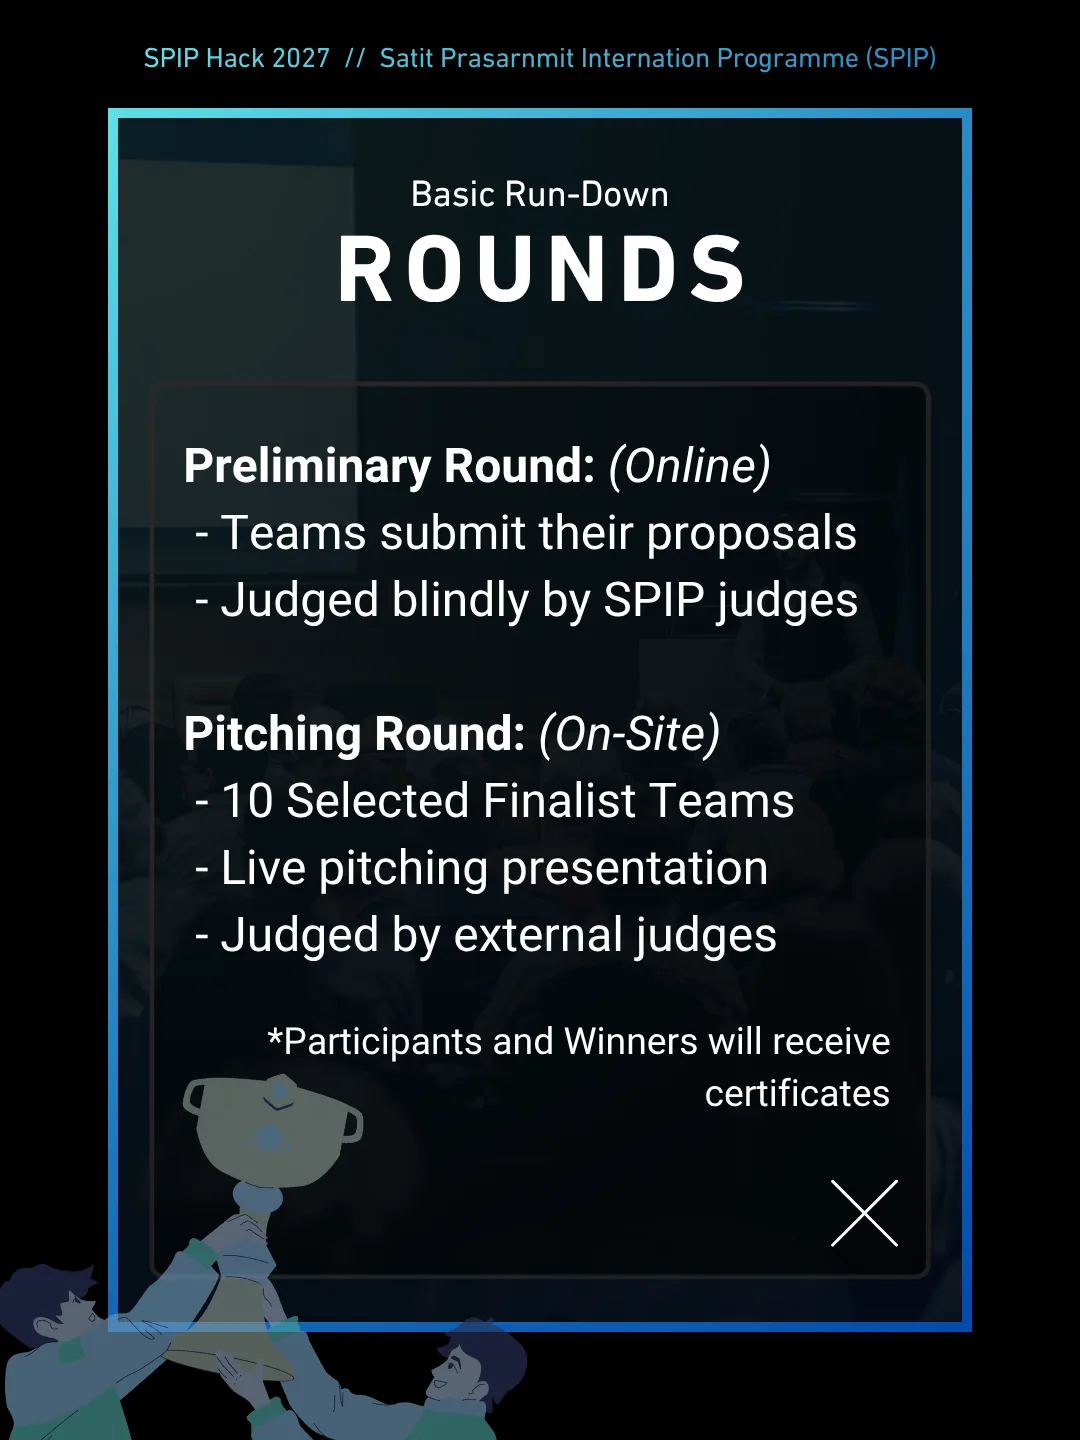
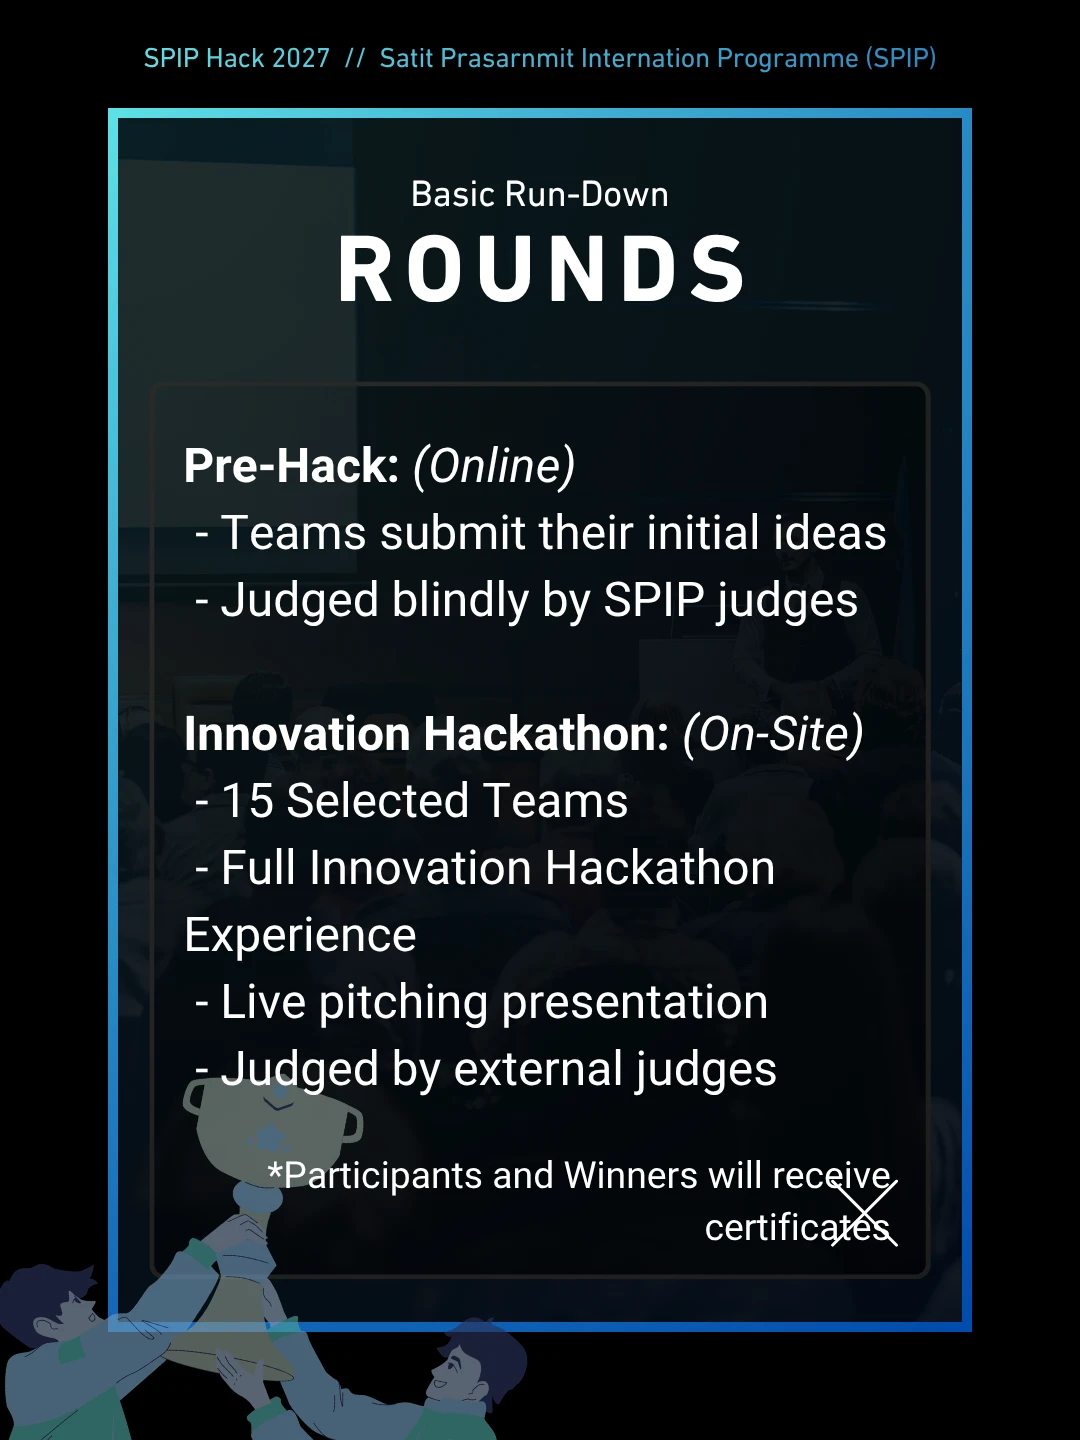
Replace the "What is SPIP Hack?" posters with the revised set
The run-down and rounds posters now use the Pre-Hack / Innovation
Hackathon names and 15 selected teams; the other three are the same
artwork. The posters are WebP only now, so the old PNG copies are
deleted. Alt text for the two changed posters is updated, and the note
listing where the posters still differ from the rulebook now covers
only 03 and 05.

Claude-Session: https://claude.ai/code/session_014WkSAYpp4QusZZrRjM1m3S

Changed region(s): [[0.1528, 0.5, 0.825, 0.7812], [0.2444, 0.3125, 0.825, 0.4062], [0.2444, 0.8125, 0.825, 0.875]]

diff --git a/index.html b/index.html
@@ -148,35 +148,30 @@
 
           <div class="carousel" id="carousel" aria-roledescription="carousel" aria-label="SPIP Hack information posters" role="region" data-reveal>
             <div class="carousel__stage frame-grad">
-              <!-- ★ POSTERS NEED RE-EXPORTING ★ — 02, 03 and 05 still show the original poster facts
-                   (online preliminary + pitching round, 10 finalists, blind judging by SPIP judges,
-                   external judges, max 3 teams per school, multi-school quota), which Participant
-                   Rulebook v3 replaces. The alt text describes the images as they are, so update it
-                   when the new posters go in. The slide panels below already follow the rulebook. -->
+              <!-- ★ 03 and 05 still differ from Participant Rulebook v3 ★ — 03 says the Pre-Hack is
+                   judged by SPIP judges and the Hackathon by external judges; 05 limits each school to
+                   3 teams and counts a multi-school team towards both schools' quota. The alt text
+                   describes the images as they are, so update it when those posters change. The slide
+                   panels below already follow the rulebook. -->
               <div class="carousel__posters" data-carousel-stage>
                 <picture class="poster is-active">
-                  <source type="image/webp" srcset="assets/posters/01-what-is-spip-hack.webp">
-                  <img src="assets/posters/01-what-is-spip-hack.png" width="1080" height="1440" loading="lazy" decoding="async"
+                  <img src="assets/posters/01-what-is-spip-hack.webp" width="1080" height="1440" loading="lazy" decoding="async"
                        alt="What is the SPIP Hack? SPIP's first-ever student-led hackathon, a cross-school innovation pitching competition. Theme: City of Tomorrow.">
                 </picture>
                 <picture class="poster" aria-hidden="true">
-                  <source type="image/webp" srcset="assets/posters/02-spip-hack-rundown.webp">
-                  <img src="assets/posters/02-spip-hack-rundown.png" width="1080" height="1440" loading="lazy" decoding="async"
-                       alt="Basic run-down, SPIP Hack: a student-led hackathon split into 2 rounds, an Online Preliminary round and an On-Site Finalist Pitching round, held at SPIP in English.">
+                  <img src="assets/posters/02-spip-hack-rundown.webp" width="1080" height="1440" loading="lazy" decoding="async"
+                       alt="Basic run-down, SPIP Hack: a student-led hackathon split into 2 rounds, an Online Pre-Hack and an On-Site Innovation Hackathon, held at SPIP in English.">
                 </picture>
                 <picture class="poster" aria-hidden="true">
-                  <source type="image/webp" srcset="assets/posters/03-rounds.webp">
-                  <img src="assets/posters/03-rounds.png" width="1080" height="1440" loading="lazy" decoding="async"
-                       alt="Basic run-down, Rounds: Preliminary round online, teams submit proposals judged blindly by SPIP judges. Pitching round on-site, 10 finalist teams pitch live to external judges. Participants and winners receive certificates.">
+                  <img src="assets/posters/03-rounds.webp" width="1080" height="1440" loading="lazy" decoding="async"
+                       alt="Basic run-down, Rounds: Pre-Hack online, teams submit their initial ideas, judged blindly by SPIP judges. Innovation Hackathon on-site, 15 selected teams take part in the full hackathon experience and pitch live to external judges. Participants and winners receive certificates.">
                 </picture>
                 <picture class="poster" aria-hidden="true">
-                  <source type="image/webp" srcset="assets/posters/04-hackathon.webp">
-                  <img src="assets/posters/04-hackathon.png" width="1080" height="1440" loading="lazy" decoding="async"
+                  <img src="assets/posters/04-hackathon.webp" width="1080" height="1440" loading="lazy" decoding="async"
                        alt="Event format, Hackathon: participants come up with a creative and innovative solution to a given prompt, then pitch to a panel of judges who score each idea and choose a winner.">
                 </picture>
                 <picture class="poster" aria-hidden="true">
-                  <source type="image/webp" srcset="assets/posters/05-teams.webp">
-                  <img src="assets/posters/05-teams.png" width="1080" height="1440" loading="lazy" decoding="async"
+                  <img src="assets/posters/05-teams.webp" width="1080" height="1440" loading="lazy" decoding="async"
                        alt="Basic guidelines, Teams: 2 to 4 members, members from multiple schools allowed. Open to any school, maximum 3 teams per school. A multi-school team counts towards the quota of both schools.">
                 </picture>
               </div>
